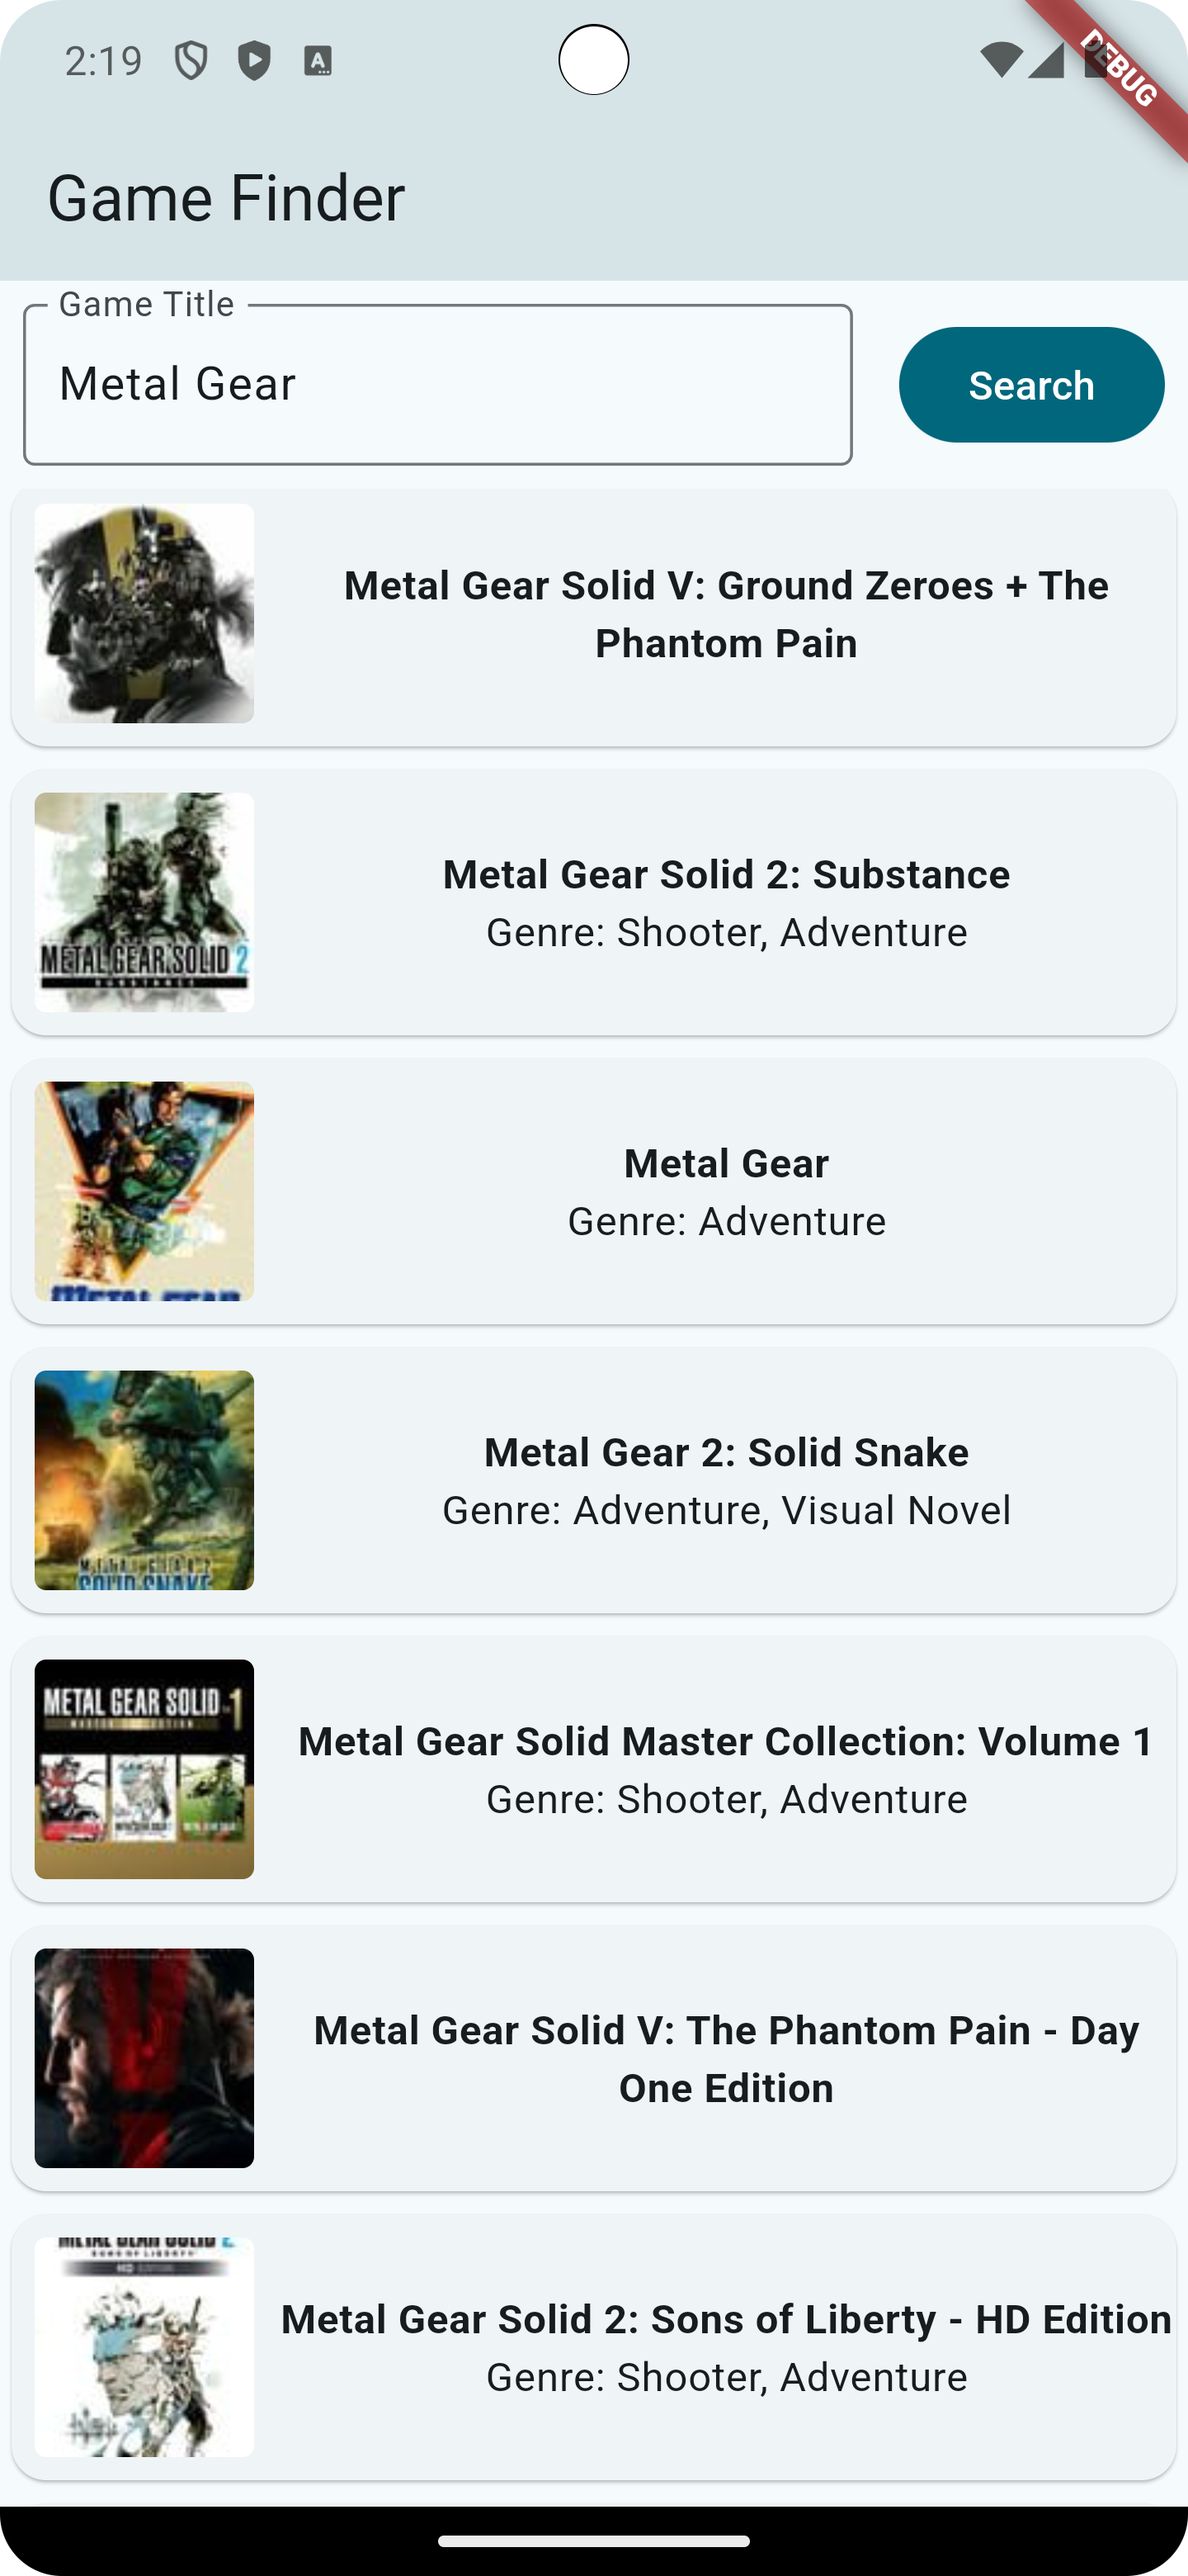
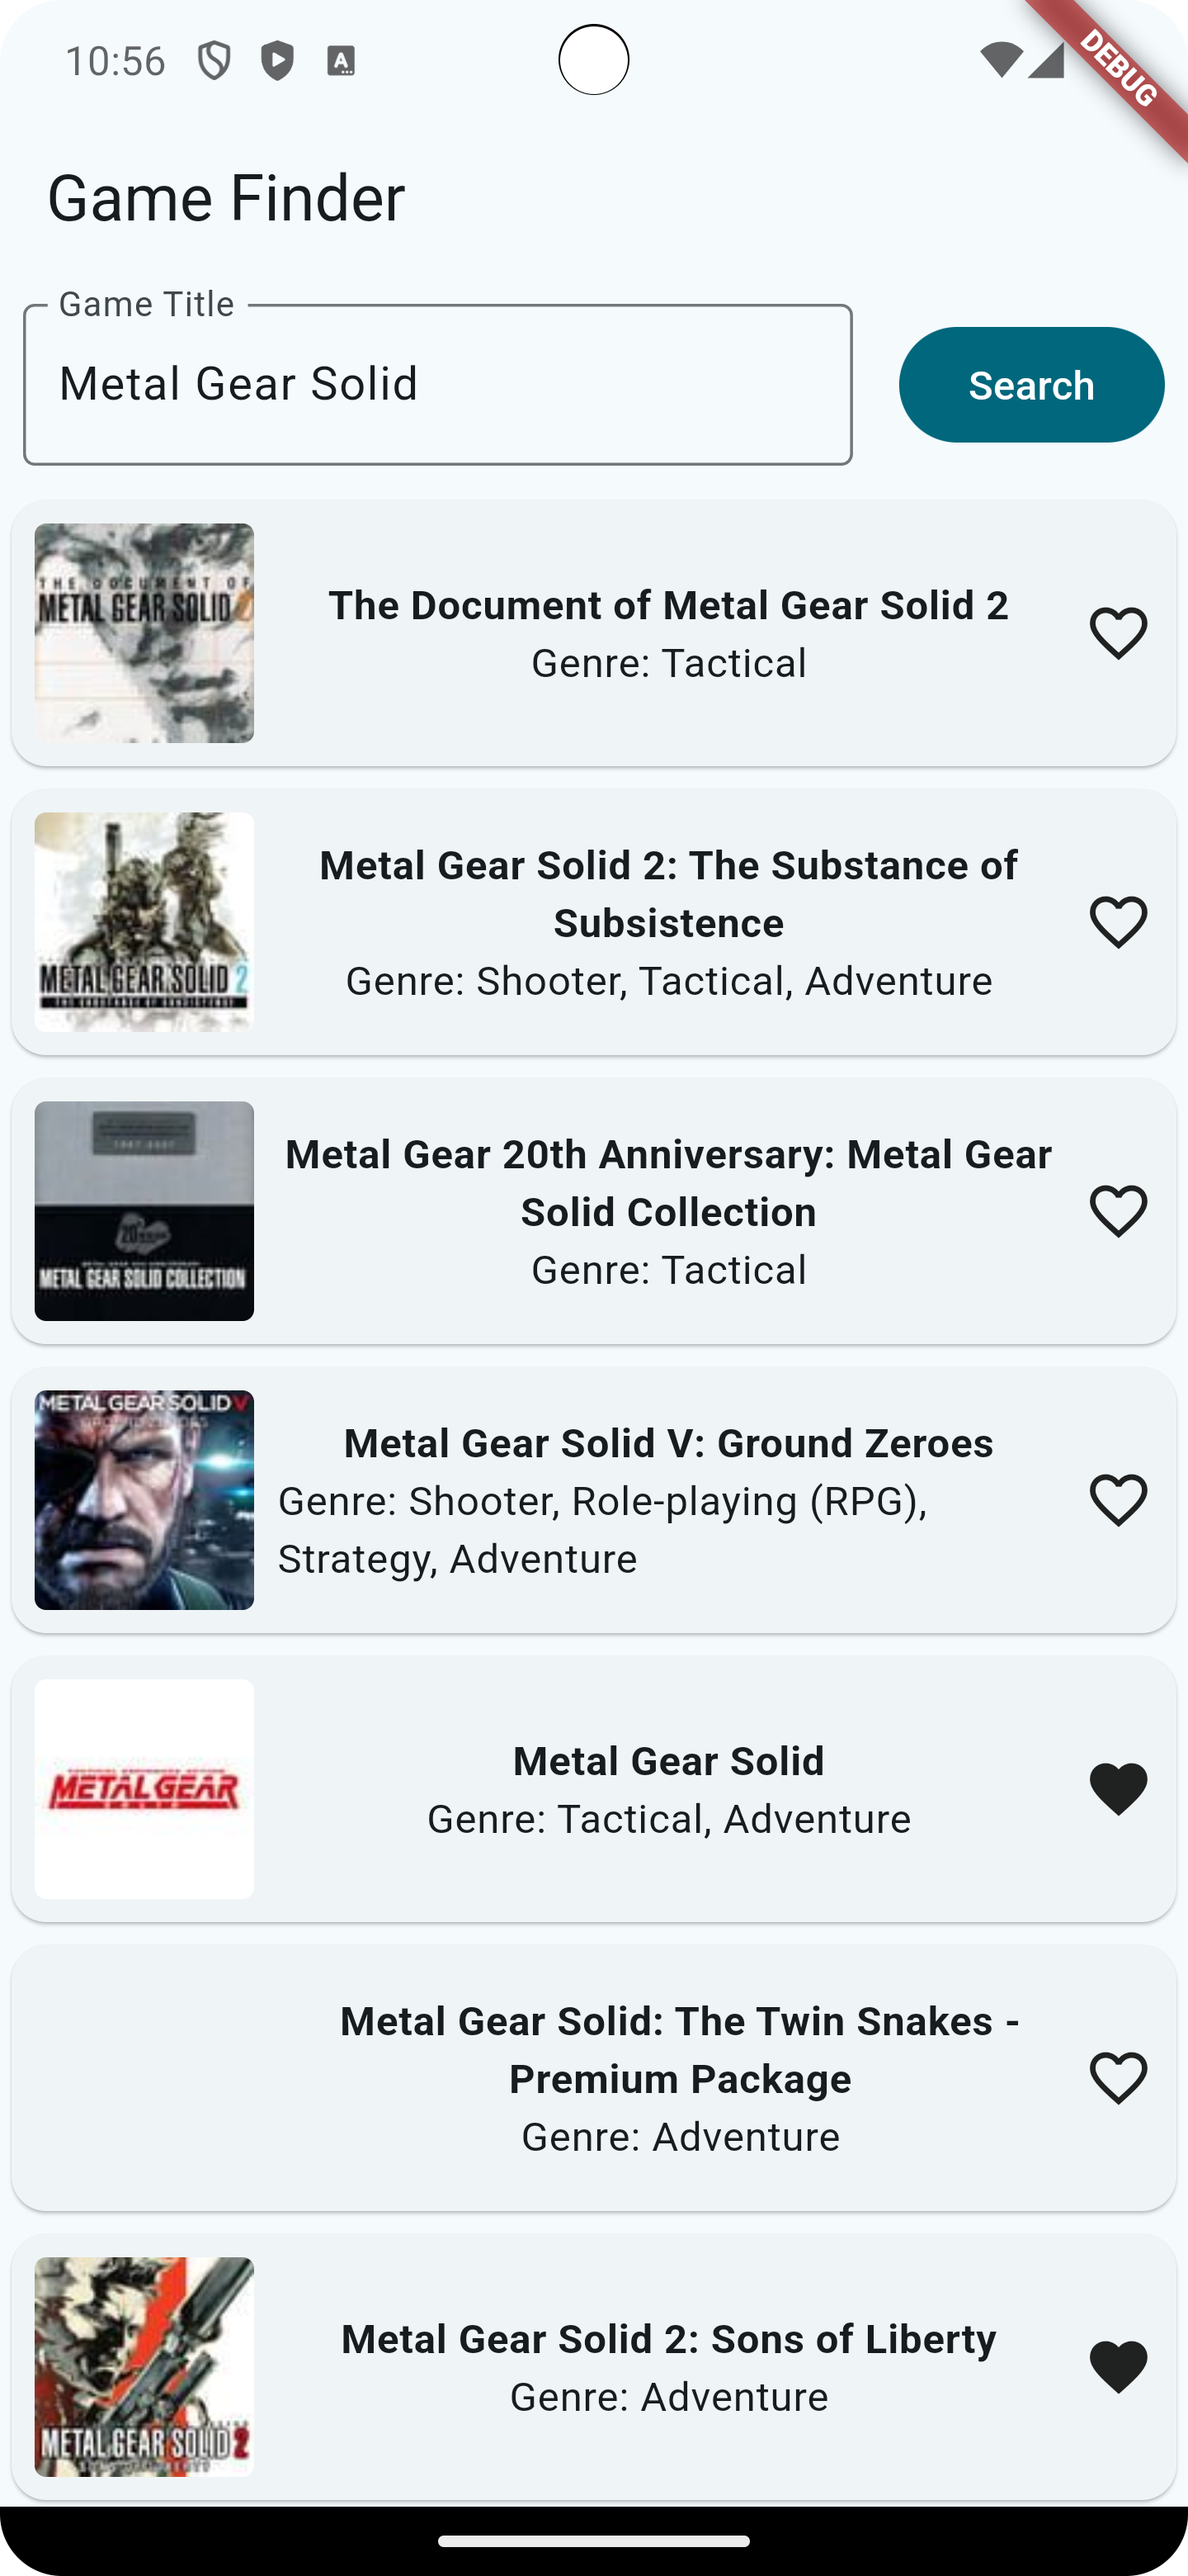
Update screenshots since ui has changed

diff --git a/lib/presentation/component/game_list_card.dart b/lib/presentation/component/game_list_card.dart
@@ -17,6 +17,7 @@ class GameListCard extends StatelessWidget {
       height: Numbers.gameCardHeight,
       child: Card(
         child: Row(
+          mainAxisAlignment: MainAxisAlignment.spaceBetween,
           children: [
             if (coverImageUrl != null)
               Padding(
@@ -50,6 +51,10 @@ class GameListCard extends StatelessWidget {
                 ],
               ),
             ),
+            Padding(
+              padding: const EdgeInsets.all(Numbers.standardPadding),
+              child: Icon(_game.isFavorite ? Icons.favorite : Icons.favorite_border),
+            )
           ],
         ),
       ),
